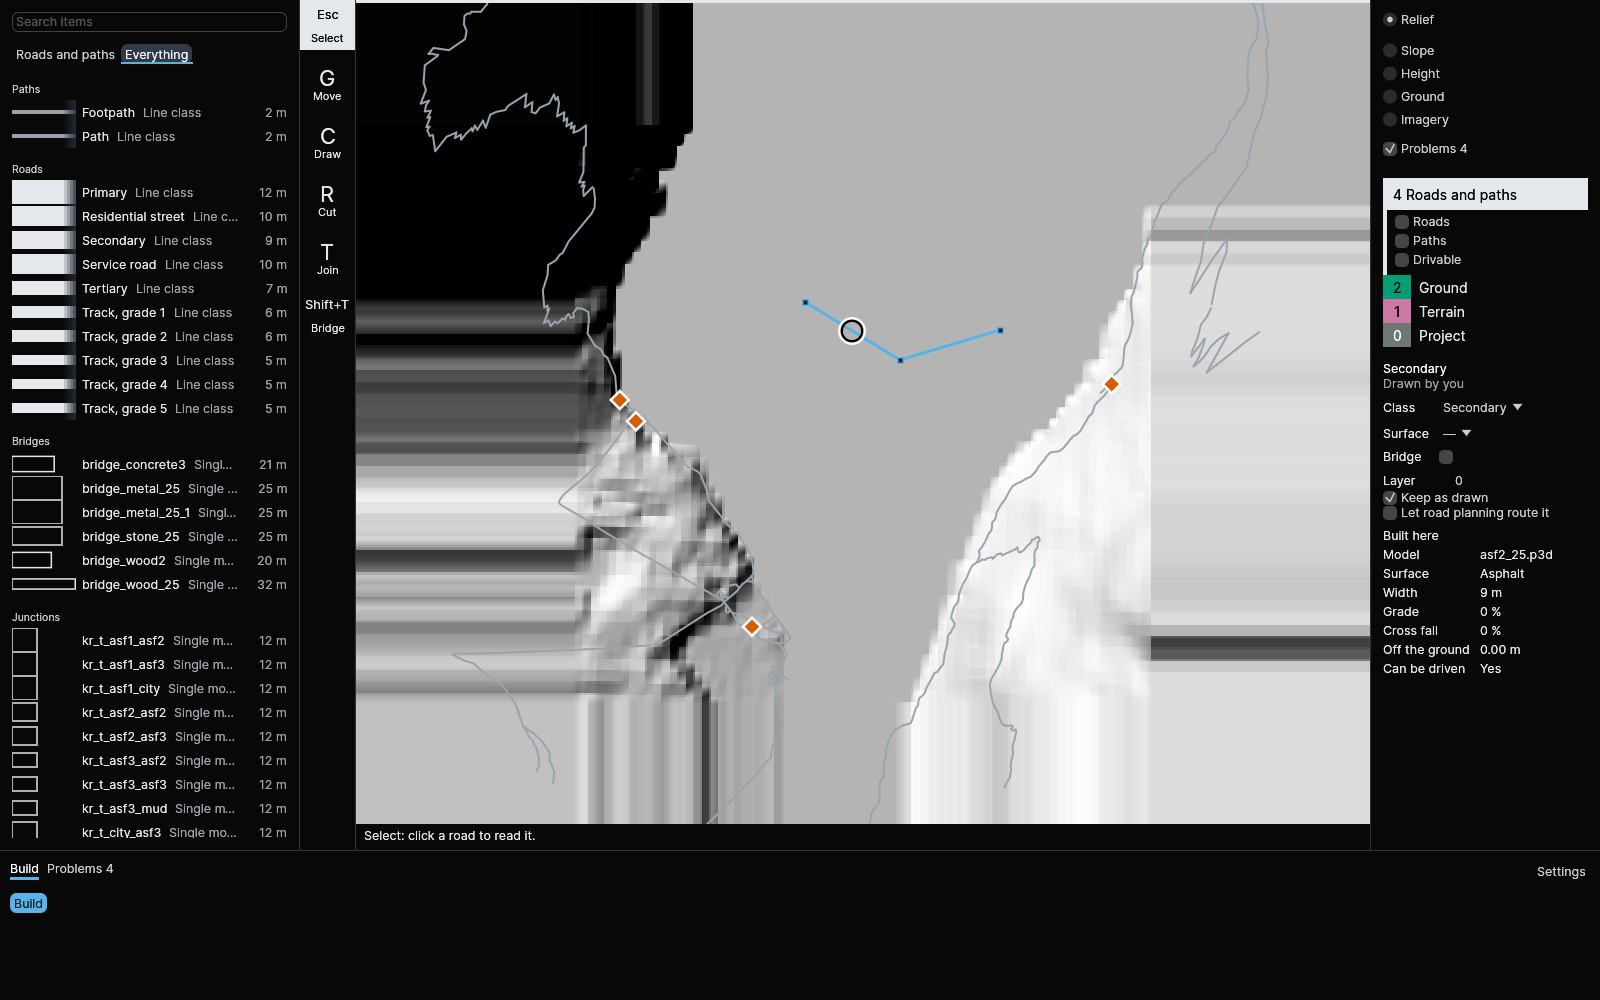
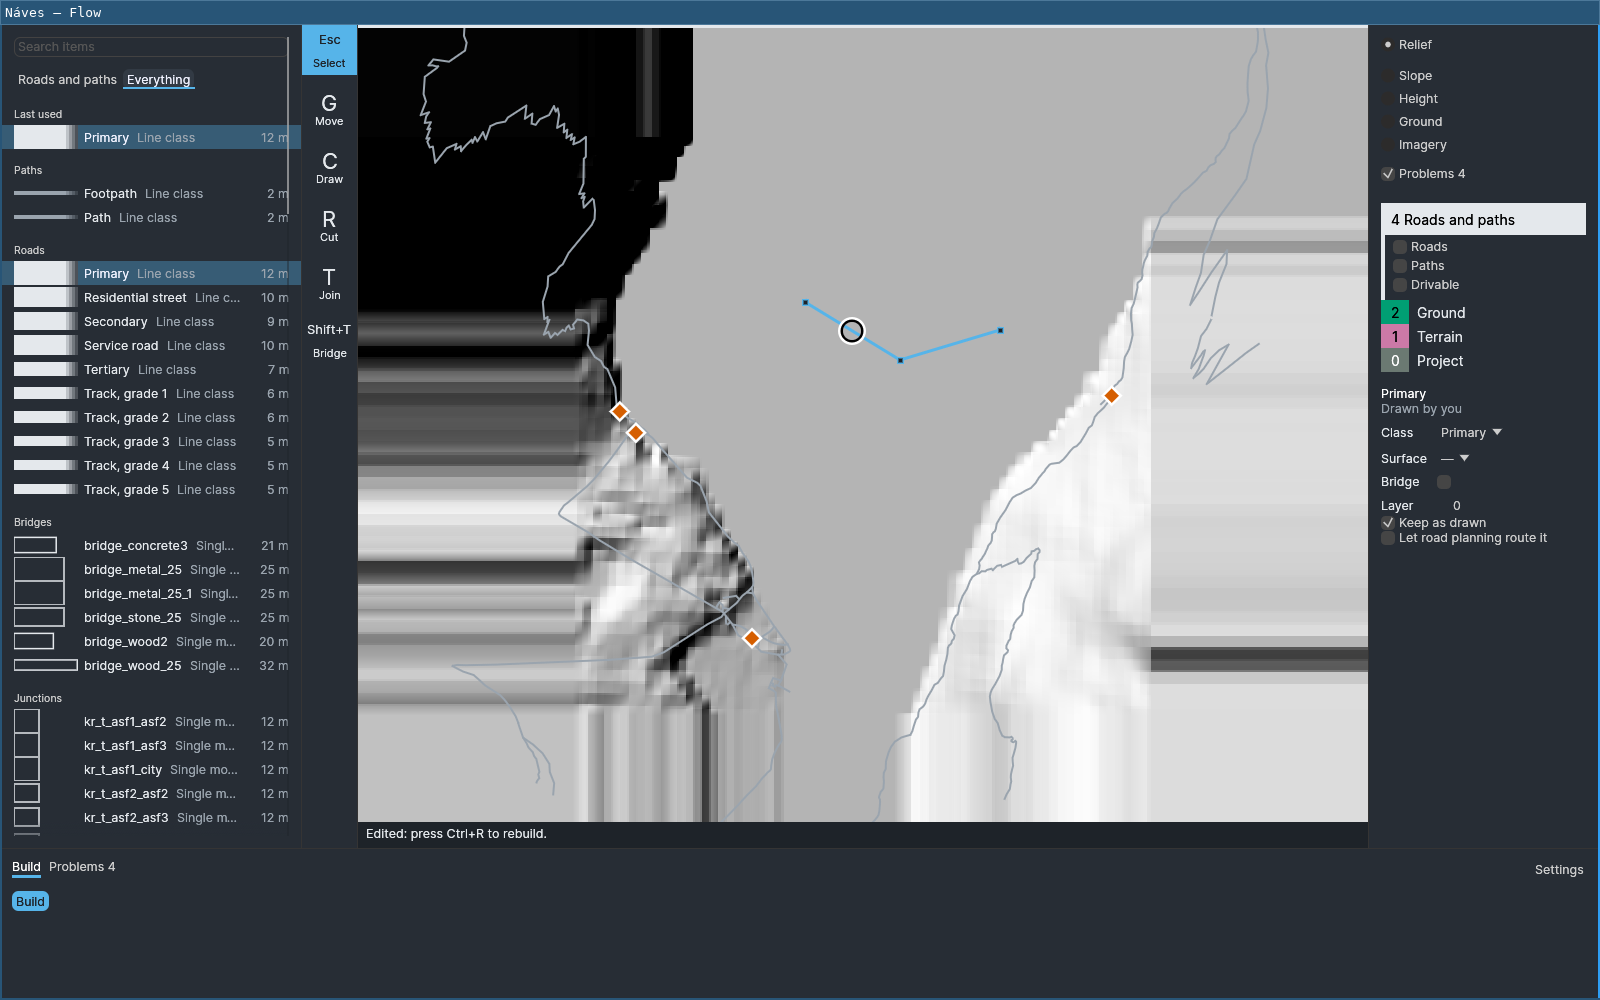
fix: the dark chrome uses the slate palette, the active tool the accent
The panels used Frame::new(), which is transparent, so the window's clear colour (#080808) showed instead of the
palette. Panels, rail and dock are now filled with the panel colour, the map surround with the ground colour; the
active rail tool is the accent with text that reads on it. Checked in headless sway: left panel, rail, right panel
and dock 272d35, status line 1e2329.

diff --git a/crates/naves/src/gui/mod.rs b/crates/naves/src/gui/mod.rs
@@ -630,7 +630,7 @@ impl NavesApp {
         egui::Panel::bottom("build")
             .resizable(!fold.dock)
             .default_size(if fold.dock { 40.0 } else { 150.0 })
-            .frame(egui::Frame::new().inner_margin(10.0))
+            .frame(theme::panel_frame(ui.visuals()).inner_margin(10.0))
             .show(ui, |ui| {
                 dock::tab_row(ui, dock::TABS, self);
                 if !fold.dock {
@@ -644,7 +644,7 @@ impl NavesApp {
             egui::Panel::left("settings-strip")
                 .resizable(false)
                 .exact_size(22.0)
-                .frame(egui::Frame::new())
+                .frame(theme::panel_frame(ui.visuals()))
                 .show(ui, |ui| {
                     if ui
                         .button("›")
@@ -658,7 +658,7 @@ impl NavesApp {
             egui::Panel::left("settings")
                 .resizable(false)
                 .exact_size(SETTINGS_WIDTH)
-                .frame(egui::Frame::new().inner_margin(12.0))
+                .frame(theme::panel_frame(ui.visuals()).inner_margin(12.0))
                 .show(ui, |ui| {
                     egui::ScrollArea::vertical()
                         .auto_shrink([false, false])
@@ -669,13 +669,13 @@ impl NavesApp {
             egui::Panel::left("rail")
                 .resizable(false)
                 .exact_size(rail::RAIL_WIDTH)
-                .frame(egui::Frame::new())
+                .frame(theme::panel_frame(ui.visuals()))
                 .show(ui, |ui| rail::rail_ui(self, ui));
         }
         egui::Panel::right("stack")
             .resizable(false)
             .exact_size(RIGHT_WIDTH)
-            .frame(egui::Frame::new().inner_margin(12.0))
+            .frame(theme::panel_frame(ui.visuals()).inner_margin(12.0))
             .show(ui, |ui| {
                 egui::ScrollArea::vertical()
                     .auto_shrink([false, false])
@@ -685,7 +685,7 @@ impl NavesApp {
                     });
             });
         egui::CentralPanel::default()
-            .frame(egui::Frame::new())
+            .frame(theme::ground_frame(ui.visuals()))
             .show(ui, |ui| self.middle(ui));
         if self.help_open {
             self.help_ui(ui.ctx());

diff --git a/crates/naves/src/gui/rail.rs b/crates/naves/src/gui/rail.rs
@@ -14,15 +14,16 @@ use super::theme::active as accent;
 pub const RAIL_WIDTH: f32 = 56.0;
 const BUTTON_HEIGHT: f32 = 50.0;
 
-/// The colours of a tool's letter and word: the level's band text on its band when active, the ink of the chrome
+/// The colours of a tool's letter and word: the text on the accent when active, the ink of the chrome
 /// (readable on the panel in both themes) otherwise.
 pub(super) fn tool_ink(
     active: bool,
-    level: super::levels::Level,
+    _level: super::levels::Level,
     visuals: &egui::Visuals,
 ) -> (egui::Color32, egui::Color32) {
     if active {
-        (level.band_text(), level.band_text())
+        let ink = super::theme::on_active(visuals);
+        (ink, ink)
     } else {
         (visuals.text_color(), visuals.text_color())
     }
@@ -50,7 +51,7 @@ pub fn rail_ui(app: &mut NavesApp, ui: &mut egui::Ui) {
             .widget_info(|| WidgetInfo::selected(egui::Role::Button, true, active, label.clone()));
         let painter = ui.painter();
         if active {
-            painter.rect_filled(rect, 0.0, level.colour());
+            painter.rect_filled(rect, 0.0, accent(ui.visuals()));
         }
         let (letter_colour, word_colour) = tool_ink(active, level, ui.visuals());
         painter.text(
@@ -75,7 +76,7 @@ pub fn rail_ui(app: &mut NavesApp, ui: &mut egui::Ui) {
                 egui::Stroke::new(
                     2.0,
                     if active {
-                        level.band_text()
+                        crate::gui::theme::on_active(ui.visuals())
                     } else {
                         accent(ui.visuals())
                     },

diff --git a/crates/naves/src/gui/tests/theme.rs b/crates/naves/src/gui/tests/theme.rs
@@ -118,3 +118,27 @@ fn light_can_be_chosen_in_the_map_tab() {
     let text = std::fs::read_to_string(&path).unwrap();
     assert!(text.contains("theme = \"light\""), "{text}");
 }
+
+/// The panels are painted with the palette: egui's `Frame::new()` is transparent, which showed the window's
+/// clear colour (#080808) instead of the slate chrome.
+#[test]
+fn the_dark_chrome_paints_the_slate_palette() {
+    let mut harness = Harness::builder()
+        .with_context_setup(|ctx| crate::gui::theme::apply_theme(ctx, ThemeChoice::Dark))
+        .build_ui(|ui| {
+            ui.label("probe");
+        });
+    harness.run();
+    let visuals = harness.ctx.global_style().visuals.clone();
+    assert!(visuals.dark_mode);
+    assert_eq!(crate::gui::theme::panel_frame(&visuals).fill, tokens::PANEL);
+    assert_eq!(
+        crate::gui::theme::ground_frame(&visuals).fill,
+        tokens::GROUND
+    );
+    // the active tool is the accent with the text that reads on it
+    let (letter, word) = crate::gui::rail::tool_ink(true, Level::Roads, &visuals);
+    assert_eq!(letter, crate::gui::theme::on_active(&visuals));
+    assert_eq!(word, letter);
+    assert!(contrast(letter, active(&visuals)) >= 4.5);
+}

diff --git a/crates/naves/src/gui/theme.rs b/crates/naves/src/gui/theme.rs
@@ -58,6 +58,16 @@ pub fn on_active(visuals: &egui::Visuals) -> Color32 {
     }
 }
 
+/// The frame of a side panel, the rail and the dock: the panel colour of the theme (dark: [`tokens::PANEL`]).
+pub fn panel_frame(visuals: &egui::Visuals) -> egui::Frame {
+    egui::Frame::new().fill(visuals.panel_fill)
+}
+
+/// The frame behind the map and the status line: the ground colour of the theme (dark: [`tokens::GROUND`]).
+pub fn ground_frame(visuals: &egui::Visuals) -> egui::Frame {
+    egui::Frame::new().fill(visuals.extreme_bg_color)
+}
+
 /// Sets the theme: the design system installs its tokens (fills, text, spacing, the Inter font) for both
 /// themes, then the dark one gets the chrome palette and `choice` picks the one in use. Call it once; to
 /// change the choice later call [`set_choice`].

diff --git a/CHANGELOG.md b/CHANGELOG.md
@@ -25,7 +25,7 @@ All notable changes to this project are documented here. The format follows
   A right click or a double click finishes a line. Space no longer pans the map; it finishes a line.
 - The properties of a road can be changed in the GUI — class, surface, bridge, layer, keep as drawn, let road planning
   route it — and an edited OpenStreetMap road can be reset.
-- The GUI is dark by default, with a colour-blind safe palette; light and the system theme are in Settings, Map.
+- The GUI is dark by default, with a colour-blind safe palette (slate panels, the active tool in the accent colour); light and the system theme are in Settings, Map.
 - `naves dem fetch` downloads a bare-earth height model from Mapterhorn for the area of the project (2.5 m pixels by
   default, `--zoom`, `--pixel-m`), caches the tiles in `dem/mapterhorn/`, writes `dem/mapterhorn_dtm.tif` with an
   attribution sidecar and lists the file first in `sources.dem`. Where Mapterhorn has nothing finer than Copernicus
